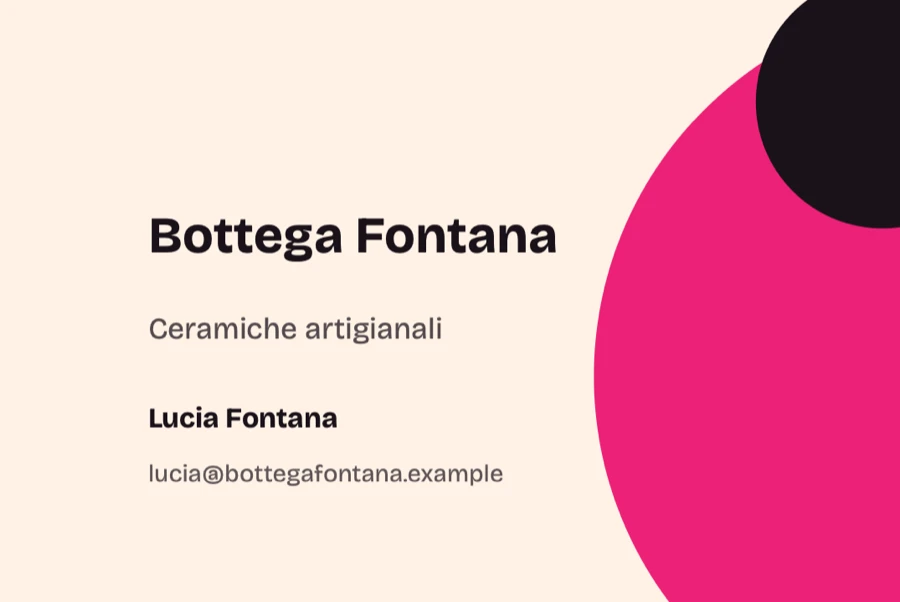
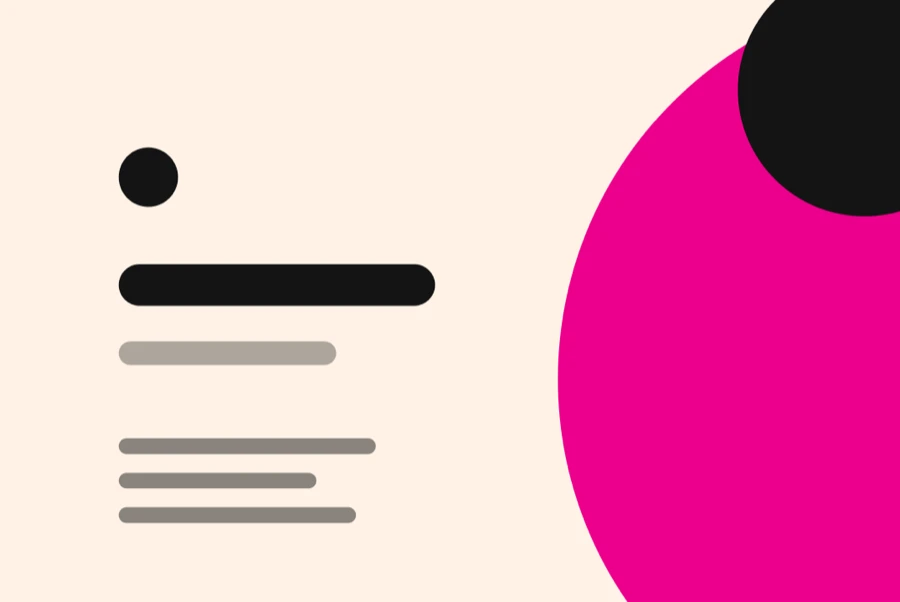
Sito: biglietto di esempio generico, senza nomi né testo

diff --git a/Scripts/make_sample_card.swift b/Scripts/make_sample_card.swift
@@ -1,41 +1,38 @@
-// Biglietto da visita di esempio (91×61 mm = 85×55 + 3 mm di abbondanza, 300 dpi) per gli screenshot del sito.
+// Biglietto da visita di esempio GENERICO (91×61 mm = 85×55 + 3 mm di abbondanza, 300 dpi): nessun nome né testo,
+// solo forme e segnaposto grigi al posto delle righe di testo. Serve per le immagini del sito.  uso: out.png
 import AppKit
 let out = CommandLine.arguments[1]
-let fontURL = URL(fileURLWithPath: CommandLine.arguments[2]) as CFURL
-CTFontManagerRegisterFontsForURL(fontURL, .process, nil)
-
-let mm = 72.0 / 25.4          // punti per millimetro: si disegna in punti, 1 punto = 300/72 pixel
+let mm = 72.0 / 25.4
 let w = 91 * mm, h = 61 * mm
 let scale = 300.0 / 72.0
 let pw = Int((w * scale).rounded()), ph = Int((h * scale).rounded())
-let cs = CGColorSpace(name: CGColorSpace.sRGB)!
-let cg = CGContext(data: nil, width: pw, height: ph, bitsPerComponent: 8, bytesPerRow: 0, space: cs,
+let cg = CGContext(data: nil, width: pw, height: ph, bitsPerComponent: 8, bytesPerRow: 0, space: CGColorSpace(name: CGColorSpace.sRGB)!,
                    bitmapInfo: CGImageAlphaInfo.noneSkipLast.rawValue)!
 cg.scaleBy(x: scale, y: scale)
 NSGraphicsContext.saveGraphicsState()
 NSGraphicsContext.current = NSGraphicsContext(cgContext: cg, flipped: false)
 
-NSColor(red: 1.0, green: 0.95, blue: 0.90, alpha: 1).setFill()
-NSRect(x: 0, y: 0, width: w, height: h).fill()
-// cerchio magenta che esce dal bordo (serve l'abbondanza)
-NSColor(red: 0.93, green: 0.13, blue: 0.47, alpha: 1).setFill()
-NSBezierPath(ovalIn: NSRect(x: w * 0.66, y: -h * 0.25, width: h * 1.25, height: h * 1.25)).fill()
-NSColor(red: 0.10, green: 0.07, blue: 0.10, alpha: 1).setFill()
-NSBezierPath(ovalIn: NSRect(x: w * 0.84, y: h * 0.62, width: h * 0.42, height: h * 0.42)).fill()
+let ink = NSColor(red: 0.08, green: 0.08, blue: 0.08, alpha: 1)
+NSColor(red: 1.0, green: 0.95, blue: 0.90, alpha: 1).setFill(); NSRect(x: 0, y: 0, width: w, height: h).fill()
+// cerchi che escono dal bordo (servono l'abbondanza)
+NSColor(red: 0.925, green: 0, blue: 0.549, alpha: 1).setFill()
+NSBezierPath(ovalIn: NSRect(x: w * 0.62, y: -h * 0.28, width: h * 1.3, height: h * 1.3)).fill()
+ink.setFill()
+NSBezierPath(ovalIn: NSRect(x: w * 0.82, y: h * 0.64, width: h * 0.42, height: h * 0.42)).fill()
 
-func text(_ s: String, size: CGFloat, weight: NSFont.Weight, color: NSColor, at p: NSPoint) {
-    let f = NSFont(name: "Bricolage Grotesque", size: size).map { NSFontManager.shared.convert($0, toHaveTrait: weight.rawValue > 0.3 ? .boldFontMask : []) }
-        ?? NSFont.systemFont(ofSize: size, weight: weight)
-    s.draw(at: p, withAttributes: [.font: f, .foregroundColor: color])
+func bar(_ x: Double, _ y: Double, _ bw: Double, _ bh: Double, _ alpha: CGFloat) {
+    ink.withAlphaComponent(alpha).setFill()
+    NSBezierPath(roundedRect: NSRect(x: x * mm, y: y * mm, width: bw * mm, height: bh * mm), xRadius: bh * mm / 2, yRadius: bh * mm / 2).fill()
 }
-let ink = NSColor(red: 0.10, green: 0.07, blue: 0.10, alpha: 1)
-text("Bottega Fontana", size: 14.5, weight: .heavy, color: ink, at: NSPoint(x: 15 * mm / 1.0, y: h - 27 * mm))
-text("Ceramiche artigianali", size: 8.5, weight: .regular, color: ink.withAlphaComponent(0.75), at: NSPoint(x: 15 * mm, y: h - 35 * mm))
-text("Lucia Fontana", size: 8, weight: .semibold, color: ink, at: NSPoint(x: 15 * mm, y: 17 * mm))
-text("lucia@bottegafontana.example", size: 7, weight: .regular, color: ink.withAlphaComponent(0.7), at: NSPoint(x: 15 * mm, y: 11.5 * mm))
+// segnaposto del testo: un piccolo simbolo, un titolo, un sottotitolo e tre righe di contatti
+ink.setFill()
+NSBezierPath(ovalIn: NSRect(x: 12 * mm, y: 40 * mm, width: 6 * mm, height: 6 * mm)).fill()
+bar(12, 30, 32, 4.2, 1)       // titolo
+bar(12, 24, 22, 2.4, 0.35)    // sottotitolo
+bar(12, 15, 26, 1.6, 0.5)     // contatti
+bar(12, 11.5, 20, 1.6, 0.5)
+bar(12, 8, 24, 1.6, 0.5)
 NSGraphicsContext.restoreGraphicsState()
-
-// PNG con i 300 dpi dichiarati nel file (così Crocini ne ricava la misura reale in mm).
 let dest = CGImageDestinationCreateWithURL(URL(fileURLWithPath: out) as CFURL, "public.png" as CFString, 1, nil)!
 CGImageDestinationAddImage(dest, cg.makeImage()!, [kCGImagePropertyDPIWidth: 300, kCGImagePropertyDPIHeight: 300] as CFDictionary)
 CGImageDestinationFinalize(dest)

diff --git a/Scripts/make_sample_tile.swift b/Scripts/make_sample_tile.swift
@@ -1,23 +1,19 @@
-// Grafica quadrata di esempio (monogramma "BF" e cerchi) che regge ritagli molto stretti, per gli elementi
-// con proporzioni lontane dal biglietto da visita: segnalibri, flyer DL, ecc.  uso: out.png font.ttf
+// Grafica quadrata di esempio GENERICA (tre "lastre" C M Y sfalsate e un punto nero, nessun testo) che regge
+// ritagli molto stretti: per gli elementi con proporzioni lontane dal biglietto (segnalibri, flyer DL…).  uso: out.png
 import AppKit
 let out = CommandLine.arguments[1]
-CTFontManagerRegisterFontsForURL(URL(fileURLWithPath: CommandLine.arguments[2]) as CFURL, .process, nil)
 let N = 1000
 let cg = CGContext(data: nil, width: N, height: N, bitsPerComponent: 8, bytesPerRow: 0, space: CGColorSpace(name: CGColorSpace.sRGB)!,
                    bitmapInfo: CGImageAlphaInfo.noneSkipLast.rawValue)!
 NSGraphicsContext.saveGraphicsState()
 NSGraphicsContext.current = NSGraphicsContext(cgContext: cg, flipped: false)
 NSColor(red: 1.0, green: 0.95, blue: 0.90, alpha: 1).setFill(); NSRect(x: 0, y: 0, width: N, height: N).fill()
-NSColor(red: 0.925, green: 0, blue: 0.549, alpha: 1).setFill()
-NSBezierPath(ovalIn: NSRect(x: 100, y: 130, width: 800, height: 800)).fill()
-NSColor(red: 0.08, green: 0.08, blue: 0.08, alpha: 1).setFill()
-NSBezierPath(ovalIn: NSRect(x: 455, y: 880, width: 90, height: 90)).fill()
-let f = NSFont(name: "Bricolage Grotesque", size: 250).map { NSFontManager.shared.convert($0, toHaveTrait: .boldFontMask) } ?? NSFont.boldSystemFont(ofSize: 250)
-let t = "BF" as NSString
-let attrs: [NSAttributedString.Key: Any] = [.font: f, .foregroundColor: NSColor(red: 0.08, green: 0.08, blue: 0.08, alpha: 1)]
-let size = t.size(withAttributes: attrs)
-t.draw(at: NSPoint(x: (CGFloat(N) - size.width) / 2, y: 470 - size.height / 2 + 40), withAttributes: attrs)
+func disc(_ color: NSColor, _ x: CGFloat, _ y: CGFloat, _ d: CGFloat) { color.setFill(); NSBezierPath(ovalIn: NSRect(x: x, y: y, width: d, height: d)).fill() }
+disc(NSColor(red: 0, green: 0.68, blue: 0.94, alpha: 1), 90, 175, 760)        // ciano
+disc(NSColor(red: 1, green: 0.95, blue: 0, alpha: 1), 150, 105, 760)          // giallo
+disc(NSColor(red: 0.925, green: 0, blue: 0.549, alpha: 0.92), 120, 140, 760)  // magenta (sovrapposto)
+disc(NSColor(red: 0.08, green: 0.08, blue: 0.08, alpha: 1), 455, 880, 90)     // punto nero
+disc(NSColor.white, 440, 440, 120)                                             // punto bianco al centro
 NSGraphicsContext.restoreGraphicsState()
 let dest = CGImageDestinationCreateWithURL(URL(fileURLWithPath: out) as CFURL, "public.png" as CFString, 1, nil)!
 CGImageDestinationAddImage(dest, cg.makeImage()!, nil); CGImageDestinationFinalize(dest)

diff --git a/PIANO.md b/PIANO.md
@@ -23,6 +23,6 @@ python3 build.py && python3 -m http.server 8099 -d dist     # http://localhost:8
 - [ ] Search Console / Bing Webmaster: inviare `/sitemap.xml`.
 
 ## Immagini e font
-- `src/img/card.webp` / `tile.webp`: grafiche di esempio per i fogli animati (`Scripts/make_sample_card.swift`: biglietto 91×61 mm a 300 dpi; `Scripts/make_sample_tile.swift`: monogramma quadrato che regge ritagli stretti, usato per gli elementi con proporzioni lontane dal biglietto). Lo screenshot dell'app è stato tolto dalla pagina.
+- `src/img/card.webp` / `tile.webp`: grafiche di esempio per i fogli animati (`Scripts/make_sample_card.swift`: biglietto generico 91×61 mm a 300 dpi, senza nomi né testo; `Scripts/make_sample_tile.swift`: cerchi C M Y quadrati che reggono ritagli stretti, usato per gli elementi con proporzioni lontane dal biglietto). Lo screenshot dell'app è stato tolto dalla pagina.
 - `src/og-crocini*.png`: `Scripts/make_og.swift`. Favicon dall'icona dell'app.
 - Font: Bricolage Grotesque (OFL), variabile alleggerita in woff2 (Latin).
